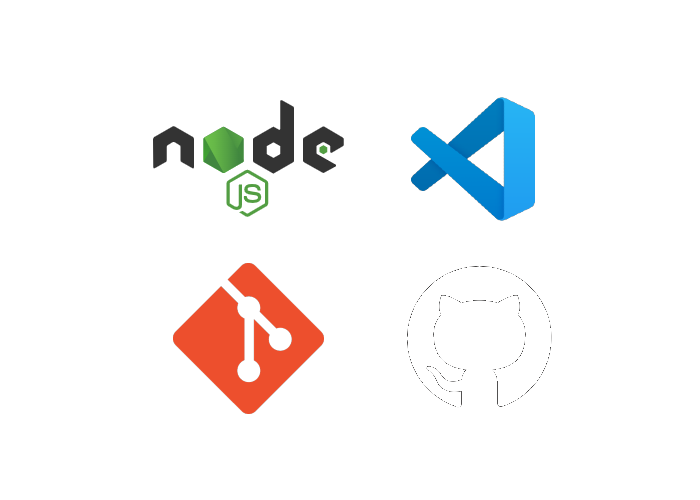
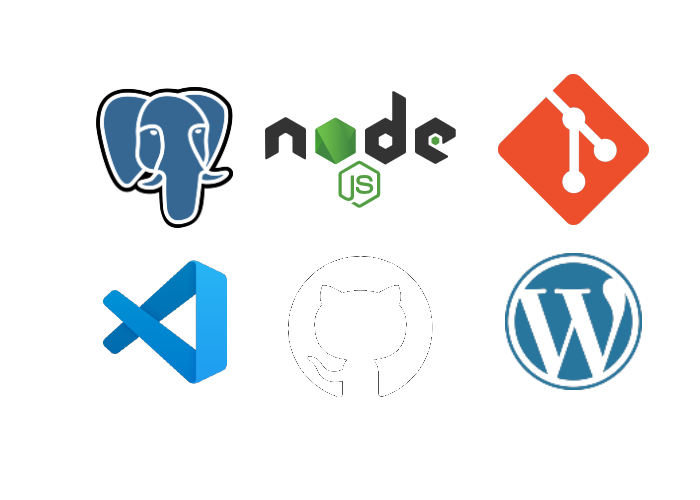
updating developer tools and systems

Changed region(s): [[0.12, 0.15, 0.93, 0.48], [0.15, 0.51, 0.48, 0.84], [0.72, 0.48, 0.93, 0.78]]

diff --git a/my-app/src/components/Skills.js b/my-app/src/components/Skills.js
@@ -28,9 +28,9 @@ export const Skills = () => {
                             </div>
 
                             <div id="tools">
-                                <h4>Developer Tools</h4>
-                                <h6>Node.js, VSCode,</h6>
-                                <h6>Git, Github</h6>
+                                <h4>Developer Tools & Systems</h4>
+                                <h6>PostgreSQL, Node.js, Git,</h6>
+                                <h6>VSCode, Github, Wordpress</h6>
                                 <img id="developerTools"  src={DeveloperTools} alt="Developer Tools"/>
                             </div>
 
